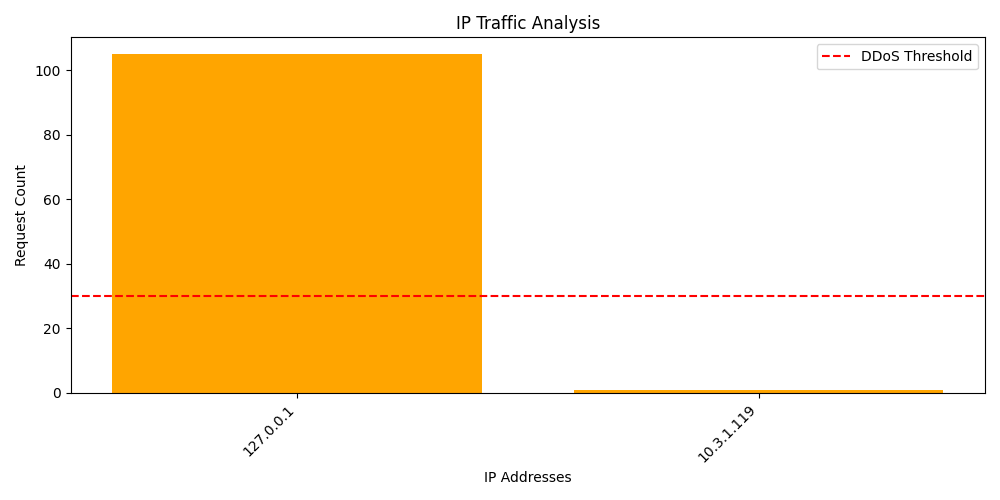
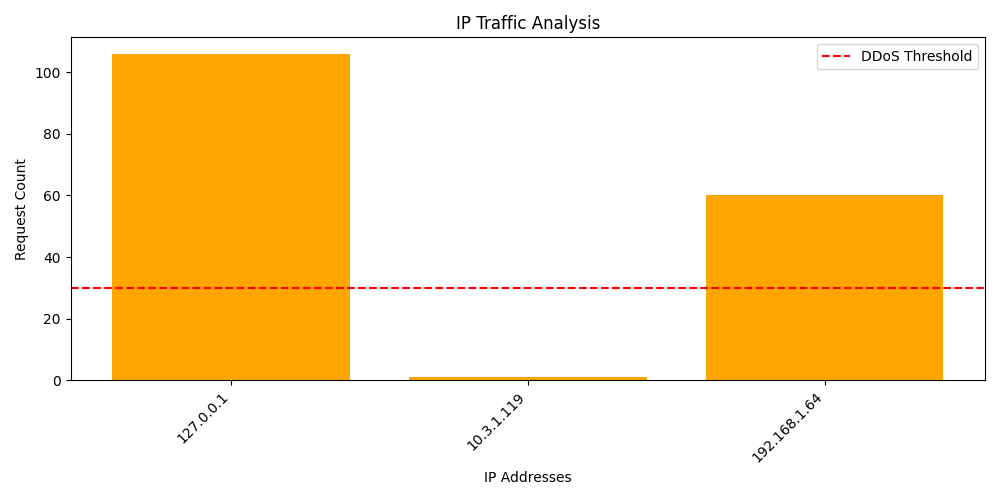
User can simulate traffic

diff --git a/web_app/app.py b/web_app/app.py
@@ -1,25 +1,48 @@
-from flask import Flask, request
-from datetime import datetime
-import os
+from flask import Flask, request, render_template_string, redirect, url_for
+import time
+import random
 
 app = Flask(__name__)
+log_file = "../logs/access.log"
 
-# Ensure logs directory exists
-LOG_FILE = os.path.join(os.path.dirname(__file__), '../logs/access.log')
-os.makedirs(os.path.dirname(LOG_FILE), exist_ok=True)
+HTML_TEMPLATE = """
+<!DOCTYPE html>
+<html>
+<head>
+    <title>DDoS Protection Tool</title>
+    <style>
+        body { font-family: sans-serif; text-align: center; margin-top: 50px; }
+        button { padding: 10px 20px; font-size: 18px; margin: 20px; cursor: pointer; }
+    </style>
+</head>
+<body>
+    <h1>🛡 Welcome to DDoS Defense Demo</h1>
+    <form method="POST" action="/simulate">
+        <button type="submit">💣 Simulate DDoS Attack</button>
+    </form>
+    <p><a href="/view-log">🔍 View Access Log</a></p>
+</body>
+</html>
+"""
 
-@app.route("/")
-@app.route("/login")
-@app.route("/data")
+@app.route("/", methods=["GET"])
 def index():
-    ip = request.remote_addr
-    path = request.path
-    time = datetime.now().strftime('%Y-%m-%d %H:%M:%S')
+    return render_template_string(HTML_TEMPLATE)
 
-    with open(LOG_FILE, "a") as f:
-        f.write(f"{ip} - {path} - {time}\n")
+@app.route("/simulate", methods=["POST"])
+def simulate_ddos():
+    attacker_ip = f"192.168.1.{random.randint(10, 200)}"
+    for _ in range(60):  # burst of traffic
+        with open(log_file, "a") as f:
+            f.write(f"{attacker_ip} - /login - {time.time()}\n")
+        time.sleep(0.05)
+    return redirect(url_for("index"))
 
-    return f"✅ Welcome to {path}. Your IP: {ip}"
+@app.route("/view-log", methods=["GET"])
+def view_log():
+    with open(log_file, "r") as f:
+        log_data = f.readlines()
+    return "<pre>" + "".join(log_data[-20:]) + "</pre>"  # last 20 lines
 
 if __name__ == "__main__":
-    app.run(host="0.0.0.0", port=5001)
+    app.run(port=5001, debug=True)
